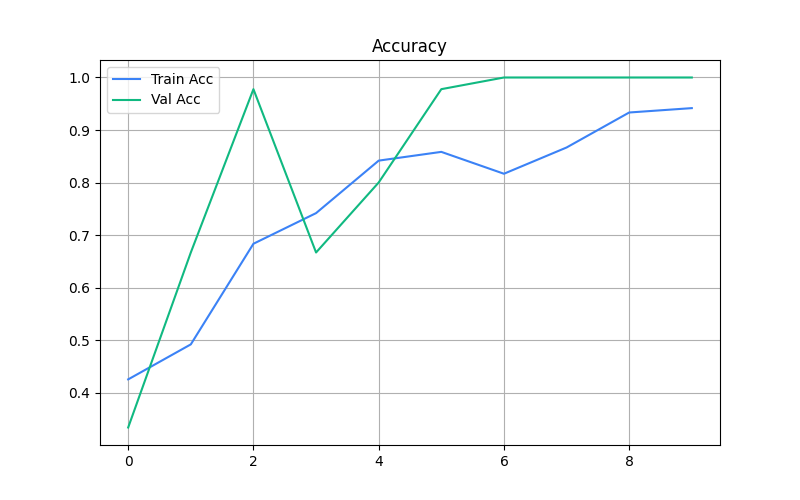
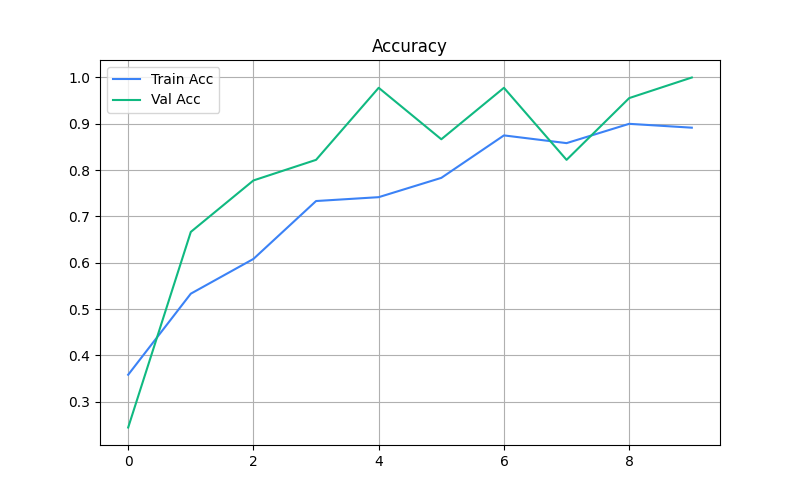
Update pneumonia detection project

diff --git a/app.py b/app.py
@@ -300,7 +300,7 @@ def is_likely_chest_xray(image_path):
         return False
 
 
-# ========================= PREDICT ROUTE =========================
+# ========================= PREDICT ROUTE (WITH GRAD‑CAM FIX) =========================
 @app.route('/predict', methods=['POST'])
 @login_required
 def predict():
@@ -356,15 +356,30 @@ def predict():
             flash("❌ Unable to confidently analyze this image. Please upload a clearer Chest X-Ray scan.", "danger")
             return redirect(url_for('upload_page'))
 
-        gradcam_filename = f"gradcam_{timestamp}_{file.filename}"
-        gradcam_path = os.path.join(app.config['UPLOAD_FOLDER'], gradcam_filename)
+        # ================= GRAD‑CAM GENERATION (with fallback) =================
         gradcam_rel_path = None
         try:
-            heatmap = get_gradcam_heatmap(img_batch, model, 'conv5_block3_out', pred_index=pred_index)
-            save_and_display_gradcam(temp_path, heatmap, cam_path=gradcam_path)
+            # Default ResNet50 layer name
+            target_layer = 'conv5_block3_out'
+            # Check if the layer exists; if not, find the last convolutional layer
+            try:
+                model.get_layer(target_layer)
+            except ValueError:
+                # Fallback: find the last layer with 'conv' in its name (excluding batch norm)
+                for layer in reversed(model.layers):
+                    if 'conv' in layer.name and 'bn' not in layer.name:
+                        target_layer = layer.name
+                        break
+                print(f"⚠ Using fallback layer: {target_layer}")
+
+            heatmap = get_gradcam_heatmap(img_batch, model, target_layer, pred_index=pred_index)
+            gradcam_filename = f"gradcam_{timestamp}_{file.filename}"
+            gradcam_full_path = os.path.join(app.config['UPLOAD_FOLDER'], gradcam_filename)
+            save_and_display_gradcam(temp_path, heatmap, cam_path=gradcam_full_path)
             gradcam_rel_path = f"/static/uploads/{gradcam_filename}"
+            print("✅ Grad‑CAM saved")
         except Exception as e:
-            print(f"Grad-CAM Error: {e}")
+            print(f"⚠ Grad‑CAM skipped: {e}")
 
         final_filename = secure_filename(f"scan_{timestamp}_{file.filename}")
         final_path = os.path.join(app.config['UPLOAD_FOLDER'], final_filename)

diff --git a/convert_model.py b/convert_model.py
@@ -1,0 +1,13 @@
+import tensorflow as tf
+
+print("Loading model with TF", tf.__version__)
+model = tf.keras.models.load_model("model/pneumonia_model.h5")
+
+# Save in H5 format (older, more compatible)
+model.save("model/pneumonia_model_fixed.h5", save_format='h5')
+print("Model saved as H5 format")
+
+# Replace the old file
+import os
+os.replace("model/pneumonia_model_fixed.h5", "model/pneumonia_model.h5")
+print("✅ Model re-saved in H5 format. Now commit and push this file.")
